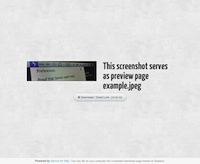
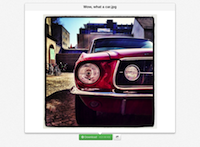
[CHG] Adjusted screenshot and link to example preview page.

diff --git a/build/index.html b/build/index.html
@@ -7,19 +7,19 @@
     <meta content="width=device-width" name="viewport">
     <meta content="Turn any file on your computer into a branded download page hosted on Dropbox." name="description">
     <title>Servus for Mac. Your uploads, your style, on Dropbox.</title>
-    <script src="js/jquery.min.js?_=1356692086"></script>
-    <script src="js/top.js?_=1356692086"></script>
+    <script src="js/jquery.min.js?_=1361307132"></script>
+    <script src="js/top.js?_=1361307132"></script>
     <link href="img/favicon.png" rel="shortcut icon">
     <link href="//assets.servus.io/2/font-awesome.css" rel="stylesheet" type="text/css">
     <!--[if IE 7 ]>
       <link href="//assets.servus.io/2/font-awesome-ie7.css" rel="stylesheet" type="text/css">
     <![endif]-->
-    <link href="css/foundation.min.css?_=1356692086" rel="stylesheet" type="text/css">
-    <link href="css/gh-fork-ribbon.css?_=1356692086" rel="stylesheet" type="text/css">
+    <link href="css/foundation.min.css?_=1361307132" rel="stylesheet" type="text/css">
+    <link href="css/gh-fork-ribbon.css?_=1361307132" rel="stylesheet" type="text/css">
     <!--[if IE]>
-      <link href="css/gh-fork-ribbon.ie.css?_=1356692086" rel="stylesheet" type="text/css">
+      <link href="css/gh-fork-ribbon.ie.css?_=1361307132" rel="stylesheet" type="text/css">
     <![endif]-->
-    <link href="css/servus.css?_=1356692086" rel="stylesheet" type="text/css">
+    <link href="css/servus.css?_=1361307132" rel="stylesheet" type="text/css">
   </head>
   <body>
     <div class="fixed contain-to-grid">
@@ -84,8 +84,8 @@
           <strong>my own branded preview page</strong>
           makes for a more professional appearance.
         </p>
-        <p><a href="https://dl.dropbox.com/s/l2zxws95dpwrfsq/index.html">
-          <img alt="Screenshot preview page" class="screenshot" height="164" src="img/screenshot_example.png" width="200">
+        <p><a href="https://dl.dropbox.com/s/vqlos2avs6fp6x8/index.html">
+          <img alt="Screenshot preview page" class="screenshot" height="147" src="img/screenshot_example.png" width="200">
         </a>
         Servus comes with a
         <a href="https://dl.dropbox.com/s/l2zxws95dpwrfsq/index.html">
